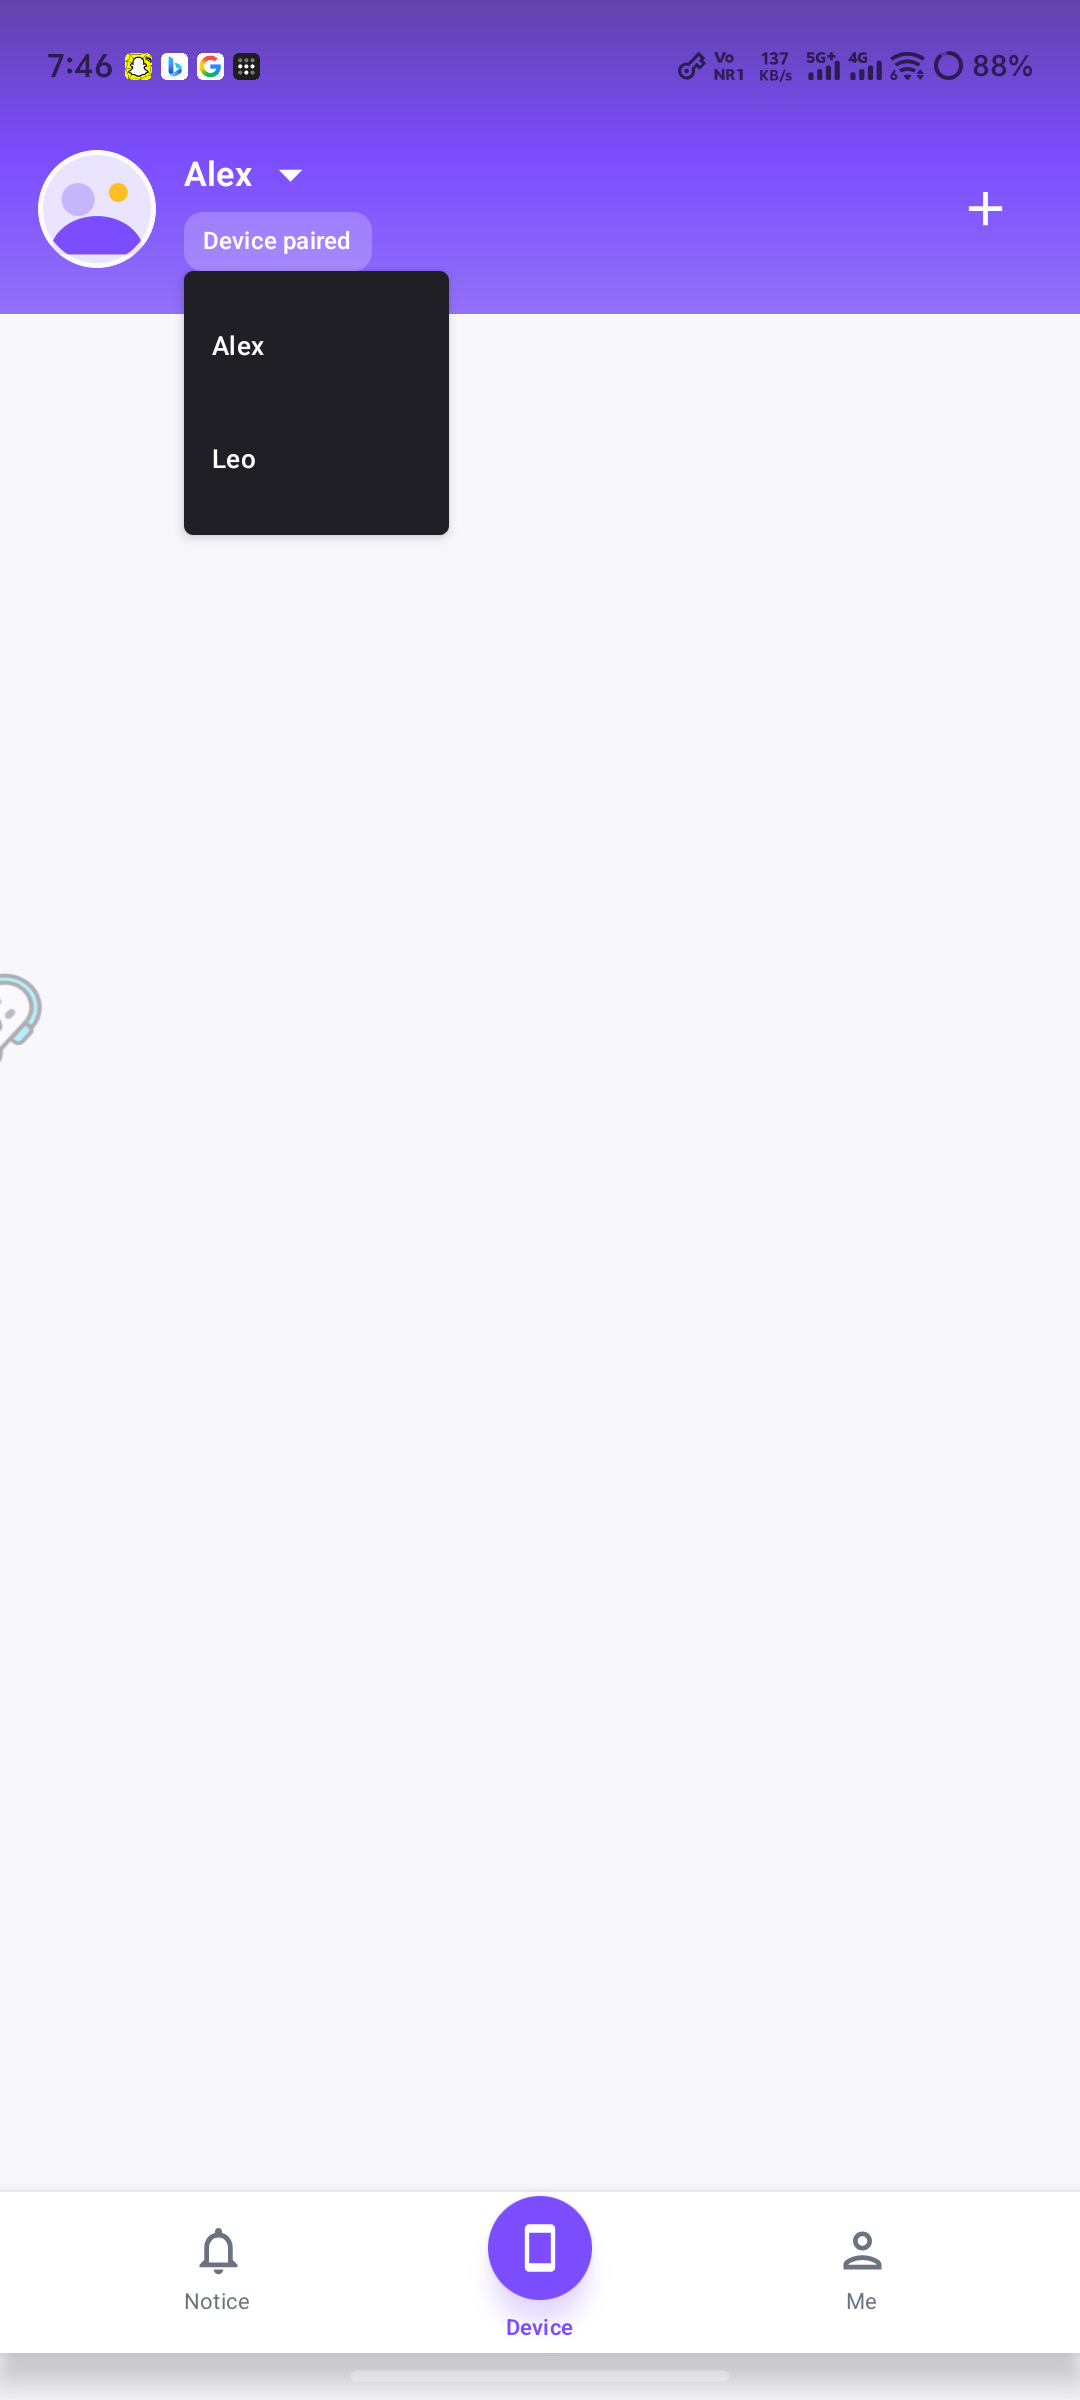
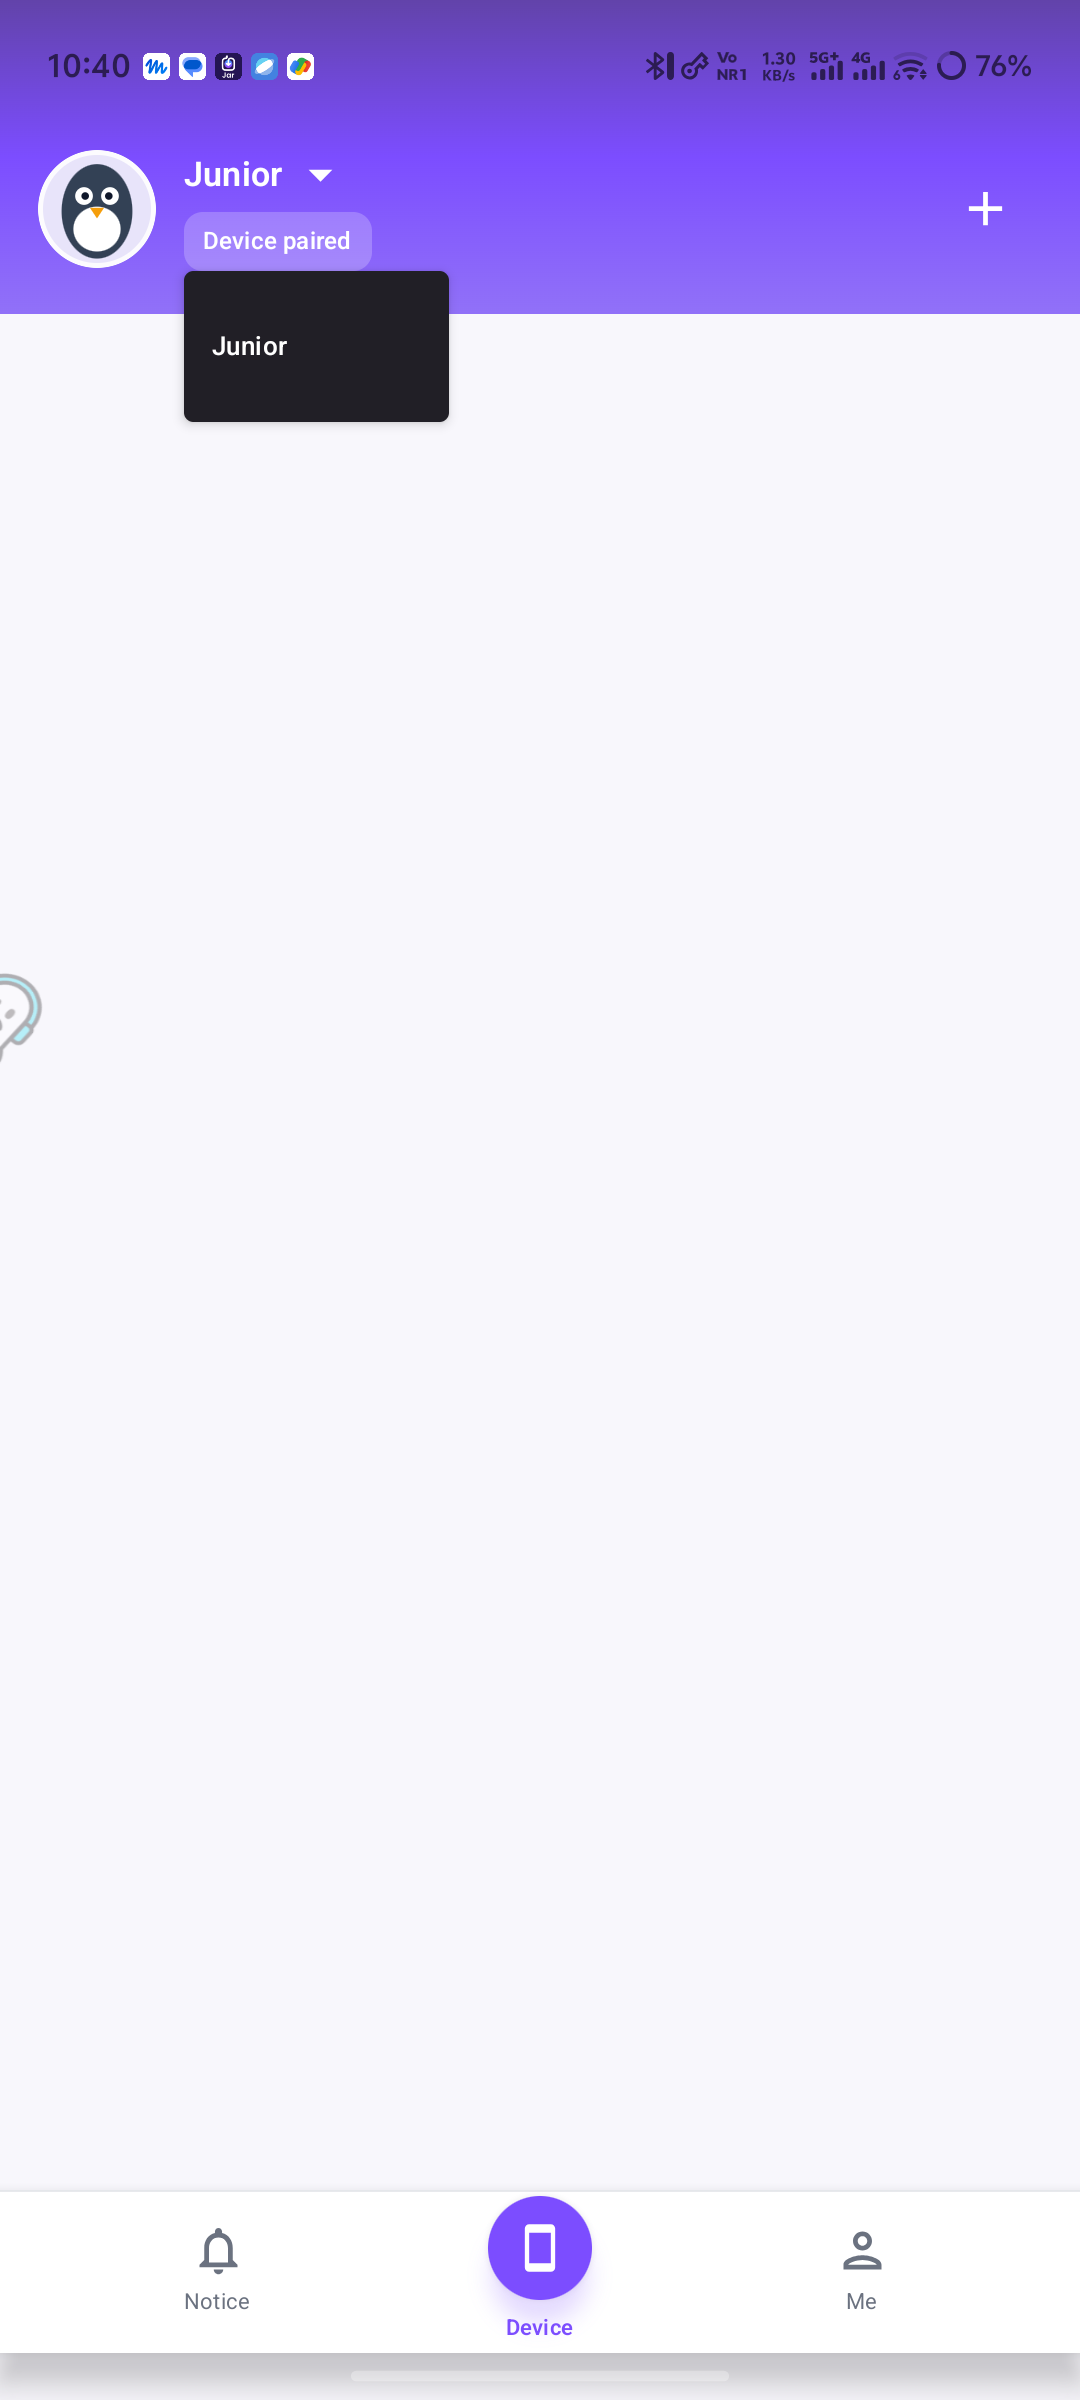
docs(proof): update physical acceptance test evidence, matching profile and dashboard, and sanitize OTPs

diff --git a/Project Work Proof/README.md b/Project Work Proof/README.md
@@ -8,9 +8,9 @@
 - **Physical Device:** Vivo I2220 (Display 1080 x 2400) connected exclusively via Tailscale Wireless ADB (`100.80.27.76:5555`).
 - **Standard Debug Packages:**
   - Parent App: `com.parentalcontrol.parent.debug`
[2 lines of base64/hex data omitted]
   - Child App: `com.parentalcontrol.child.debug`
[2 lines of base64/hex data omitted]
 - **Proof-Mode Removal:** All `-PproofMode=true`, `.debug.proof` package IDs, `BuildConfig.PROOF_MODE`, and `api.invalid` configurations have been eliminated per project owner mandate.
 
 ---
@@ -39,9 +39,9 @@ Every screenshot below was captured directly from the physical Vivo I2220 phone 
 | 14 | **Approval AlertDialog** | `Parent App/04_Pairing/03_parent_phone_approval_dialog.png` | **VERIFIED** — White card dialog with purple "Approve" button and `vivo I2220` model. |
 | 15 | **Step 2 Setup Guidance** | `Parent App/04_Pairing/02_parent_phone_step2_guidance.png` | **VERIFIED** — "Open Child's App" tutorial cards and setup instructions. |
 | 16 | **Step 3 Child Information** | `Parent App/05_Child_Information/01_parent_phone_step3_child_info.png` | **VERIFIED** — Fixed purple "Skip" button, 8-avatar grid, nickname/age/gender fields. |
-| 17 | **Step 3 Filled Profile** | `Parent App/05_Child_Information/02_parent_phone_step3_filled.png` | **VERIFIED** — Profile filled with child name "Alex", avatar 2, boy selected. |
-| 18 | **Minimal Dashboard** | `Parent App/06_Dashboard/01_parent_phone_dashboard.png` | **VERIFIED** — Minimal dashboard with paired device Alex (`vivo I2220`) and bottom tabs. |
-| 19 | **Device Dropdown** | `Parent App/06_Dashboard/02_parent_phone_device_dropdown.png` | **VERIFIED** — Active child device selector dropdown menu. |
+| 17 | **Step 3 Filled Profile** | `Parent App/05_Child_Information/02_parent_phone_step3_filled.png` | **VERIFIED** — Form filled on physical phone with nickname "Junior", age 10, boy selected, avatar 3 (Penguin) captured BEFORE pressing Complete. |
+| 18 | **Minimal Dashboard** | `Parent App/06_Dashboard/01_parent_phone_dashboard.png` | **VERIFIED** — Minimal dashboard with paired device Junior (`vivo I2220`), avatar Penguin, and bottom tabs. |
+| 19 | **Device Dropdown** | `Parent App/06_Dashboard/02_parent_phone_device_dropdown.png` | **VERIFIED** — Active child device selector dropdown menu displaying Junior. |
 | 20 | **Notice Tab** | `Parent App/06_Dashboard/03_parent_phone_notice_tab.png` | **VERIFIED** — Empty state notice tab. |
 | 21 | **Me Tab** | `Parent App/06_Dashboard/04_parent_phone_me_tab.png` | **VERIFIED** — Parent profile, account settings, biometric toggle, and log out action. |
 
@@ -81,8 +81,8 @@ Every screenshot below was captured directly from the physical Vivo I2220 phone 
     - Backend committed `acknowledged_at = 2026-11-26 07:38:22.328+05:30` and cleared `issued_device_token`.
     - Child displayed "Connected Successfully!", tapped "Setup", passed initial setup check.
     - Parent UI advanced automatically to Step 2 Guidance -> Step 3 Child Information.
-    - Device record `aff15b6e-cf7a-40d3-b9b6-ae8ff01ec1fe` successfully bound to parent `6b2fce60-d50b-459f-9ab4-df824e63b048` with child name `Junior Vivo`, age 10, gender Boy, avatar 3.
-    - Parent dashboard opened with paired device Alex (`vivo I2220`).
+    - Device record `aff15b6e-cf7a-40d3-b9b6-ae8ff01ec1fe` successfully bound to parent `6b2fce60-d50b-459f-9ab4-df824e63b048` with child name `Junior`, age 10, gender Boy (`male`), avatar 3 (Penguin), and setup_step 4.
+    - Parent dashboard opened with paired device Junior (`vivo I2220`) displaying matching Penguin avatar. Parent restart and logout/re-login cleanly restored this device without duplicating associations. Child restart verified persistent initial setup completion.
 - **Optical QR Code Scanning:**
   - **Active Production Scanner:** `DevicePairingScreen.kt` implements `LiveCameraQrScanner` using CameraX 1.4.1 (`ProcessCameraProvider`, `PreviewView`, `CameraSelector.DEFAULT_BACK_CAMERA`, `ImageAnalysis.Builder()`) and Google ML Kit Barcode Scanning (`BarcodeScanning.getClient()`). It performs live QR decoding, schema validation via `parseChildQrContract`, unexpired check, and `previewQrPairing()`.
   - **Cleanup of Legacy Simulation:** The obsolete simulation file `QrScannerScreen.kt` and its stale import in `MainActivity.kt` have been completely removed.

diff --git a/Project Work Proof/Backend/01_API_Verification/genuine-auth-verification.md b/Project Work Proof/Backend/01_API_Verification/genuine-auth-verification.md
@@ -14,8 +14,8 @@
 | 1 | Registration Validation | `POST /api/v1/auth/register` | Weak password `123` | HTTP 400 Bad Request (Policy rejection) | HTTP 400 (`Password must be at least 10 characters long`) | **PASS** |
 | 2 | Genuine Registration | `POST /api/v1/auth/register` | Valid synthetic identity, Argon2id compliant password | HTTP 201 Created | HTTP 201 (`Registration successful...`) | **PASS** |
 | 3 | Pre-Verification Login Attempt | `POST /api/v1/auth/login` | Valid credentials before email verification | HTTP 403 Forbidden | HTTP 403 (`Email not verified. Please verify your email before logging in.`) | **PASS** |
-| 4 | Email Dispatch & Receipt | `GET http://127.0.0.1:8025/api/v1/messages` | Search recipient `qa.synth.auth.*` | Captured message in Mailpit | HTTP 200 (Subject: `255891 is your Parental Control OS verification code`) | **PASS** |
-| 5 | Email Verification Confirmation | `POST /api/v1/auth/verify-email` | `{ email, otpCode: "255891" }` | HTTP 200 OK | HTTP 200 (`Email verified successfully`) | **PASS** |
+| 4 | Email Dispatch & Receipt | `GET http://127.0.0.1:8025/api/v1/messages` | Search recipient `qa.synth.auth.*` | Captured message in Mailpit | HTTP 200 (Subject: `[REDACTED_OTP] is your Parental Control OS verification code`) | **PASS** |
+| 5 | Email Verification Confirmation | `POST /api/v1/auth/verify-email` | `{ email, otpCode: "[REDACTED_OTP]" }` | HTTP 200 OK | HTTP 200 (`Email verified successfully`) | **PASS** |
 | 6 | Verified Login | `POST /api/v1/auth/login` | Correct email & password | HTTP 200 OK with Access & Refresh tokens | HTTP 200 OK (JWT Access & Refresh tokens received) | **PASS** |
 | 7 | Invalid Password Login | `POST /api/v1/auth/login` | Correct email, wrong password | HTTP 401 Unauthorized | HTTP 401 Unauthorized | **PASS** |
 | 8 | Session Restoration | `POST /api/v1/auth/refresh` | Valid Refresh Token | HTTP 200 OK with rotated Access Token | HTTP 200 OK (New Access Token generated) | **PASS** |
